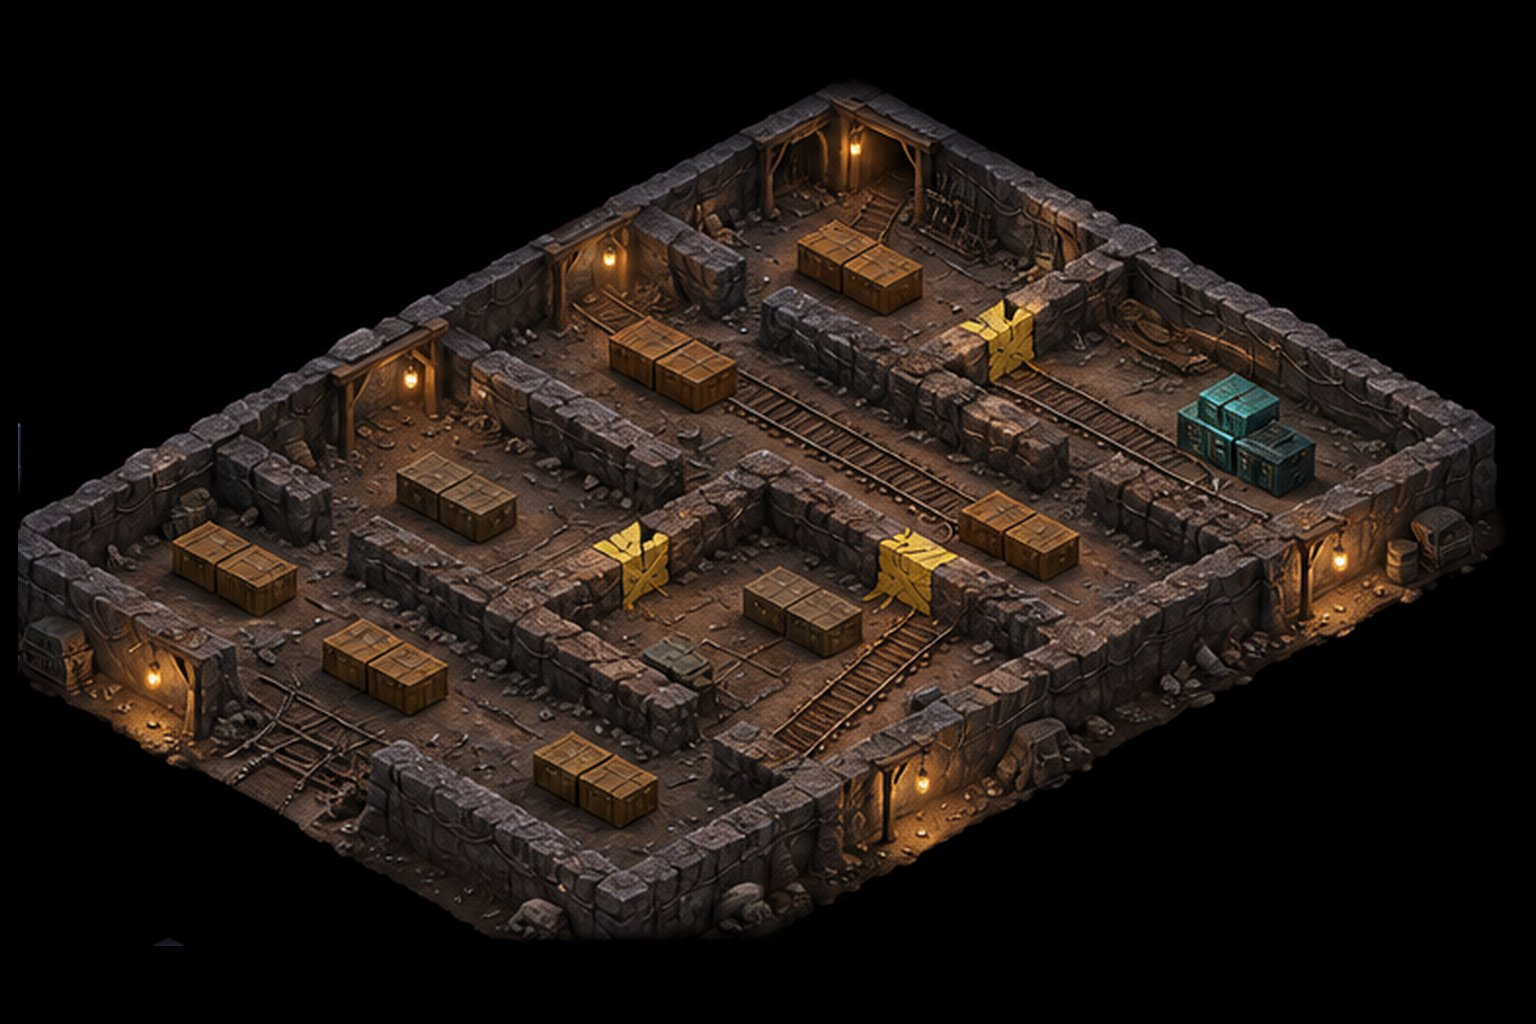
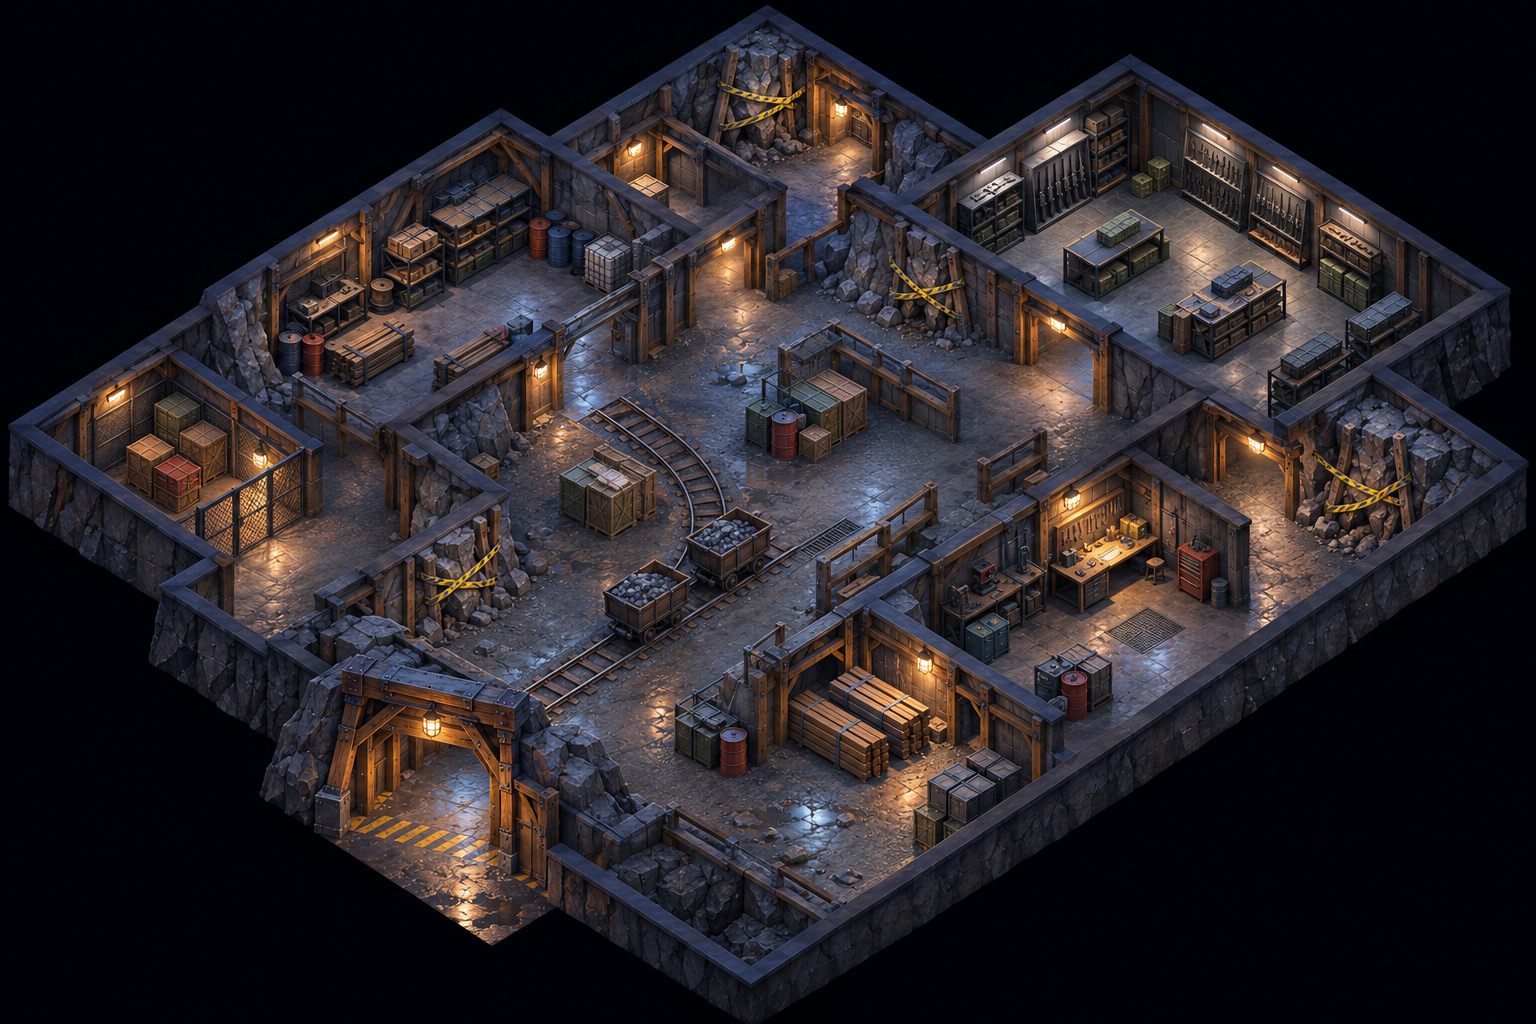
v0.26.0: new mine and mansion maps for story stages 4 and 5
Claude-Session: https://claude.ai/code/session_01YWSFXRBaK3zkDDX76dUHdx

diff --git a/public/index.html b/public/index.html
@@ -676,9 +676,11 @@ var MIS=[
  guards:[{wps:[[5,8],[5,15]]},{wps:[[7,10],[7,15]]},{wps:[[14,6],[14,10]]},{wps:[[13,14]],faces:[3.14,-1.57],ft:5},{wps:[[7,2]],cam:true,faces:[-0.9,1.5],ft:12},{wps:[[1,15]],cam:true,faces:[0,-0.9],ft:6}],
  brief:'<ul>'+RULES+'<li>파란 빛은 감시카메라다. 앉아도 소용없고, 제압도 안 된다.</li><li>글리치의 <b>해킹</b>: 카메라를 탭하면 6칸 안에서 25초간 끈다. 벽 너머도 된다.</li><li>글리치의 <b>교란</b>: 바닥을 탭하면 드론이 소리를 내 4칸 안의 적을 그쪽으로 부른다.</li><li>카메라는 총으로 부술 수도 있다. 권총은 시끄럽다.</li></ul>'},
 {title:'길을 내는 자',code:'MISSION 04 // VIPER + BRICK',copy:'정문은<br>안 쓴다.',pre:'폐광 안쪽에 무기고. 길목마다 사람이 서 있다. 그래서 브릭이 벽으로 간다.',post:['무기고 날렸다.','소리가 좀 컸다.'],img:'p_brick.jpg',
- goal0:'무기고에 폭약을 설치하라',goal1:'두 명 모두 갱도 입구로 복귀',bg:'bg4.jpg',sk:0.44,wake:90,opaque:'RCW',hts:{'R':30,'C':22,'W':30,'X':40},proj:[34.32261999130425, -38.471547620494924, 845.5773331000529, 20.108173550584898, 20.189334253769353, 134.78270027808657, -0.0029330382205890243, 0.0007752523931072309, 1.0],MAP:["RRRRRRRRRRRRRRRR", "R......R.......R", "R......R....XC.R", "R..CC..W.......R", "R......R.......R", "RRR.RRRRRRR.RRRR", "R..............R", "R..CC......CC..R", "R..............R", "RRRRRR.RRRRWRRRR", "R......R.......R", "R......R..CC...R", "R......W.......R", "R......R.......R", "R...CC.R...C...R", "RRR.RRRRRRRR.RRR", "R..............R", "R..............R", "R.CC...CC...CC.R", "R..............R", "R..............R", "RRRRRRRRRRRRRRRR"],
- ops:[{id:'viper',x:6,y:20},{id:'brick',x:7,y:20}],exit:[[5,20],[6,20],[7,20],[8,20]],objective:{x:12,y:2,use:[11,2],label:'무기고',verb:'폭약 설치',time:3},
- guards:[{wps:[[1,16],[14,16]]},{wps:[[1,10],[6,10],[6,13],[1,13]]},{wps:[[9,10],[14,10],[14,13],[9,13]]},{wps:[[1,6],[14,6],[14,8],[1,8]]},{wps:[[14,1]],faces:[PI,HP],ft:6.5},{wps:[[1,1],[6,1],[6,4],[1,4]]}],
+ goal0:'무기고에 폭약을 설치하라',goal1:'두 명 모두 갱도 입구로 복귀',bg:'bg4.jpg',sk:0.44,wake:90,opaque:'#W',hts:{'#':46,'W':46,'C':22,'X':30},
+ proj:[37.061823528, -36.432245961, 878.16834158, 22.867143383, 22.833793834, -105.753436955, 0.000441462, 0.0003783, 1.0],
+ MAP:["#######...........#######", "#######.#################", "#######.##.....C..#######", "#######.#....C.C..#..####", "#.#######.X....C..#######", "#.#.....#....CC...#...###", "#.#.....#.........#...###", "#.#...###W##.######...###", "#.#..#................###", "#.#####.............#.###", "######..CCCCC...###C#.###", "#...C#....C.........#.###", "#.CC.#....C...C.#.C...###", "#.........C...C.#.....###", "#C............C.C.C.C.###", "#...C.........C.#C....###", "#CC...#...C.C...#.....###", "#..C..#..CC.....##C##C###", "#.....#.....C.....C..C#.#", "##.######.............###", ".####C..#.............#.#", ".#...C..#W......CC....#.#", ".#...C..#.............#.#", ".#...C..#.............#.#", "#######...............#.#", "##....#.......####....#.#", "############.....########", "###########.......#######", "###########.......#######", "#########################", "#########################"],
+ ops:[{id:'viper',x:14,y:27},{id:'brick',x:15,y:27}],exit:[[13,27],[14,27],[15,27],[16,27],[13,28],[14,28],[15,28],[16,28]],objective:{x:10,y:4,use:[10,5],label:'무기고',verb:'폭약 설치',time:3},
+ guards:[{wps:[[14,9],[18,9]]},{wps:[[7,13],[7,18]]},{wps:[[10,19],[20,19]]},{wps:[[16,3]],faces:[1.57,0],ft:6},{wps:[[19,12],[19,16]]}],
  brief:'<ul>'+RULES+'<li>노란 벽은 약한 벽이다. 브릭의 <b>돌파</b>로 부수면 새 길이 열린다.</li><li>돌파는 7칸까지 소리가 퍼진다. 적이 몰려오기 전에 움직여라.</li><li>브릭은 맨손 제압도 한다. 바이퍼는 멀리서 길을 정리한다.</li></ul>'},
 {title:'가면 무도회',code:'MISSION 05 // MIRAGE + GLITCH',copy:'오늘은<br>손님으로 간다.',pre:'후원자 저택 파티. 서재 금고에 장부가 있다. 연회장엔 워든이 직접 와 있다.',post:['장부 챙겼다.','나오는 길에 워든이랑 눈이 마주쳤다.'],img:'p_mirage.jpg',
  goal0:'서재의 장부를 회수하라',goal1:'두 명 모두 현관으로 복귀',bg:'bg5.jpg',sk:0.44,wake:90,opaque:'#B',hts:{'#':44,'B':40,'C':22,'X':50},
@@ -760,7 +762,7 @@ Object.keys(STORY).forEach(function(id){
     m.bc=['nokill','noinv','noload'][ci];m.story={id:id,ci:ci};SIDX[id].push(MIS.length);MIS.push(m);
   });
 });
-var VERSION='0.25.1';
+var VERSION='0.26.0';
 var PROG={c:{},s:{},b:{},end:{},g:{},n:{},pt:0,name:'',vol:1,all:false};
 try{var pj=JSON.parse(localStorage.getItem('s6prog')||'null');if(pj)for(var pk in pj)PROG[pk]=pj[pk];}catch(e){}
 function saveProg(){try{localStorage.setItem('s6prog',JSON.stringify(PROG));}catch(e){}}

diff --git a/tools/map/trace_story/mine.py b/tools/map/trace_story/mine.py
@@ -1,0 +1,38 @@
+import st,sm,numpy as np
+from PIL import Image
+n=4;C,R_=st.CFG[n][:2];Hm=np.array(st.H(n)).reshape(3,3);Hi=np.linalg.inv(Hm)
+def g(p,z=46):
+    v=Hi@np.array([p[0],p[1]+z,1.0]);return v[0]/v[2],v[1]/v[2]
+M=[['.']*C for _ in range(R_)]
+def put(x,y,ch):
+    x=int(np.floor(x));y=int(np.floor(y))
+    if 0<=x<C and 0<=y<R_:M[y][x]=ch
+def seg(a,b,ch='#',z=46):
+    A=g(a,z);B=g(b,z);k=int(max(abs(B[0]-A[0]),abs(B[1]-A[1]))*10)+1
+    if abs(B[0]-A[0])>abs(B[1]-A[1]):my=(A[1]+B[1])/2;A=(A[0],my);B=(B[0],my)
+    else:mx=(A[0]+B[0])/2;A=(mx,A[1]);B=(mx,B[1])
+    for t in range(k+1):put(A[0]+(B[0]-A[0])*t/k,A[1]+(B[1]-A[1])*t/k,ch)
+W=[((20,428),(165,350)),((165,350),(205,300)),((205,300),(500,115)),((500,115),(555,142)),((555,142),(768,12)),((768,12),(986,135)),((905,190),(1136,58)),((1136,58),(1505,290)),((1505,290),(1381,367)),((1381,367),(1526,465)),((1526,465),(745,975)),((745,975),(550,850)),
+ ((20,430),(215,560)),((215,560),(165,590)),((165,590),(270,650)),((270,650),(350,700)),((520,720),(555,850)),
+ ((165,350),(320,437)),((295,370),(390,425)),((385,425),(500,488)),((360,570),(500,495)),((400,420),(515,360)),
+ ((555,150),(690,228)),((690,228),(645,255)),((690,228),(785,186)),((605,120),(785,188)),
+ ((841,185),(1020,277)),((1080,307),(1286,410)),((1286,410),(1381,367)),
+ ((936,558),(1036,495)),((1036,485),(1251,530)),((1251,530),(1236,600)),((836,602),(936,556)),((836,605),(1061,720))]
+for a,b in W:seg(a,b)
+seg((320,440),(200,510),'C')
+for a,b in [((786,325),(951,410)),((816,545),(930,480))]:seg(a,b,'C',z=18)
+im=np.array(Image.open('x/bg4.jpg').convert('L')).astype(int)
+for y in range(R_):
+    for x in range(C):
+        p=st.P(st.H(n),x+.5,y+.5,0);px,py=int(p[0]),int(p[1])
+        if not(0<=px<1536 and 0<=py<1024) or im[max(0,py-3):py+4,max(0,px-3):px+4].mean()<14:M[y][x]='#'
+for p in [(590,490),(640,495),(600,520),(800,425),(840,405),(790,445),(640,605),(730,550),(850,725),(900,705),(880,745),(700,735),(735,755),(960,795),(1000,775),(1090,585),(1010,625),(1060,685),(1095,695),(1230,295),(1285,335),(1190,320),(1330,330),(430,255),(480,235),(540,255),(600,255),(350,305),(385,335),(370,355),(480,348),(940,640),(960,600),(1210,560),(1175,345),(1380,300)]:
+    q=g(p,0);put(q[0],q[1],'C')
+wk=g((926,228));put(wk[0],wk[1],'W')
+wk3=g((440,530));put(wk3[0],wk3[1],'W')
+ob=g((1116,245),0);put(ob[0],ob[1],'X')
+d=g((1050,292));M[int(d[1])][int(d[0])]='.';print('door',d)
+en=g((430,845),0);print('entrance',en,'obj',ob,'w2',wk,'w3',wk3)
+if __name__=='__main__':
+    print('\n'.join(''.join(r) for r in M))
+    st.grid(4,'v4',S=1,MAP=[''.join(r) for r in M])

diff --git a/tools/map/trace_story/ins.py b/tools/map/trace_story/ins.py
@@ -2,12 +2,13 @@ import io,json,re,shutil,sm,st
 G={1:"[{wps:[[5,5],[5,13]]},{wps:[[7,5],[15,5]]},{wps:[[9,9],[9,15]]},{wps:[[14,6],[14,9]]},{wps:[[13,13]],faces:[3.14,-1.57],ft:5},{wps:[[14,5]],faces:[1.57,3.14],ft:5}]",
    2:"[{wps:[[12,8],[15,8]]},{wps:[[6,9],[6,14]]},{wps:[[10,15],[16,15]]},{wps:[[19,16]],faces:[3.14,-1.57],ft:5},{wps:[[7,3],[7,7]]}]",
    5:"[{wps:[[8,8],[13,11],[10,15]],boss:true},{wps:[[5,7],[5,12]]},{wps:[[17,11]],faces:[1.57,-1.57],ft:6},{wps:[[5,5]],cam:true,faces:[0,1.57],ft:9}]",
+   4:"[{wps:[[14,9],[18,9]]},{wps:[[7,13],[7,18]]},{wps:[[10,19],[20,19]]},{wps:[[16,3]],faces:[1.57,0],ft:6},{wps:[[19,12],[19,16]]}]",
    3:"[{wps:[[5,8],[5,15]]},{wps:[[7,10],[7,15]]},{wps:[[14,6],[14,10]]},{wps:[[13,14]],faces:[3.14,-1.57],ft:5},{wps:[[7,2]],cam:true,faces:[-0.9,1.5],ft:12},{wps:[[1,15]],cam:true,faces:[0,-0.9],ft:6}]"}
-OPS={1:['raven'],3:['raven','glitch'],2:['raven','viper'],5:['mirage','glitch']}
-EXIT={5:'[[19,19],[18,18],[18,19],[19,18]]',2:'[[13,23],[14,23],[15,23],[16,23],[13,22],[14,22],[15,22],[16,22]]'}
-HTS={5:"{'#':44,'B':40,'C':22,'X':50}",2:"{'#':40,'B':34,'C':20,'X':40}"}
-OPQ={2:'#B',5:'#B'}
-TITLE={1:'혼자 남은 사람',3:'눈이 되는 자',2:'원거리 지원',5:'가면 무도회'}
+OPS={1:['raven'],3:['raven','glitch'],2:['raven','viper'],4:['viper','brick'],5:['mirage','glitch']}
+EXIT={4:'[[13,27],[14,27],[15,27],[16,27],[13,28],[14,28],[15,28],[16,28]]',5:'[[19,19],[18,18],[18,19],[19,18]]',2:'[[13,23],[14,23],[15,23],[16,23],[13,22],[14,22],[15,22],[16,22]]'}
+HTS={4:"{'#':46,'W':46,'C':22,'X':30}",5:"{'#':44,'B':40,'C':22,'X':50}",2:"{'#':40,'B':34,'C':20,'X':40}"}
+OPQ={2:'#B',5:'#B',4:'#W'}
+TITLE={1:'혼자 남은 사람',3:'눈이 되는 자',2:'원거리 지원',5:'가면 무도회',4:'길을 내는 자'}
 def install(ns):
     p='/home/claude/silent_six/public/index.html';s=io.open(p,encoding='utf8').read()
     for n in ns:

diff --git a/tools/map/trace_story/sm.py b/tools/map/trace_story/sm.py
@@ -66,6 +66,9 @@ put(M,[(1,7),(1,8),(1,9),(2,6),(2,10),(2,13),(2,14),(2,15),(3,19),(5,19),(6,20),
 put(M,R(0,20,20,20)+R(20,0,20,20),'#');put(M,[(13,19),(19,13)],'.')
 M[1][12]='X'
 OUT[5]=dict(MAP=M,start=[(19,19),(18,18)],use=(12,2),obj=(12,1))
+# ---------- 4 mine (traced in mine.py)
+import mine as _mine
+OUT[4]=dict(MAP=_mine.M,start=[(14,27),(15,27)],use=(10,5),obj=(10,4))
 if __name__=='__main__':
     import sys
     for n in map(int,sys.argv[1:]):show(n)

diff --git a/docs/CHANGELOG.md b/docs/CHANGELOG.md
@@ -1,5 +1,10 @@
 # 변경 기록
 
+## v0.26.0 — 2026-11-19
+- 스토리 04 길을 내는 자: 새 폐광 그림 적용(25×31 격자). 갱도 입구로 들어가 오른쪽 위 무기고에 폭약 설치. 약한 벽 2곳(무기고 옆 낙석, 철망 창고 앞 낙석)을 브릭이 뚫을 수 있다. 경비 5명.
+- 스토리 05 가면 무도회: 다시 그린 저택 그림 적용(21×21 격자). 현관 → 무도회장을 둘러싼 복도 → 오른쪽 위 서재의 금고. 현관 양옆 벽 끝에 복도로 나가는 통로를 열었다. 워든 + 경비 2명 + 카메라 1대.
+- 시즌 1 에피소드 1의 여섯 판 모두 새 맵으로 교체 완료. 29개 미션 자동 클리어 확인.
+
 ## v0.25.1 — 2026-11-19
 - 스토리 02 원거리 지원: 새 통신 기지 그림 적용(23×25 격자). 정문으로 들어가 중계동의 통신 장비를 파괴하고 정문으로 돌아온다(탈출 지점을 북쪽 도로에서 정문으로 변경). 경비 5명.
 - 05 저택은 무도회장이 팔각형이고 방이 윤곽 밖으로 나가 있어 직각 구조로 다시 그리기로 결정. 묶음은 `tools/map/packs/story_mansion`.
